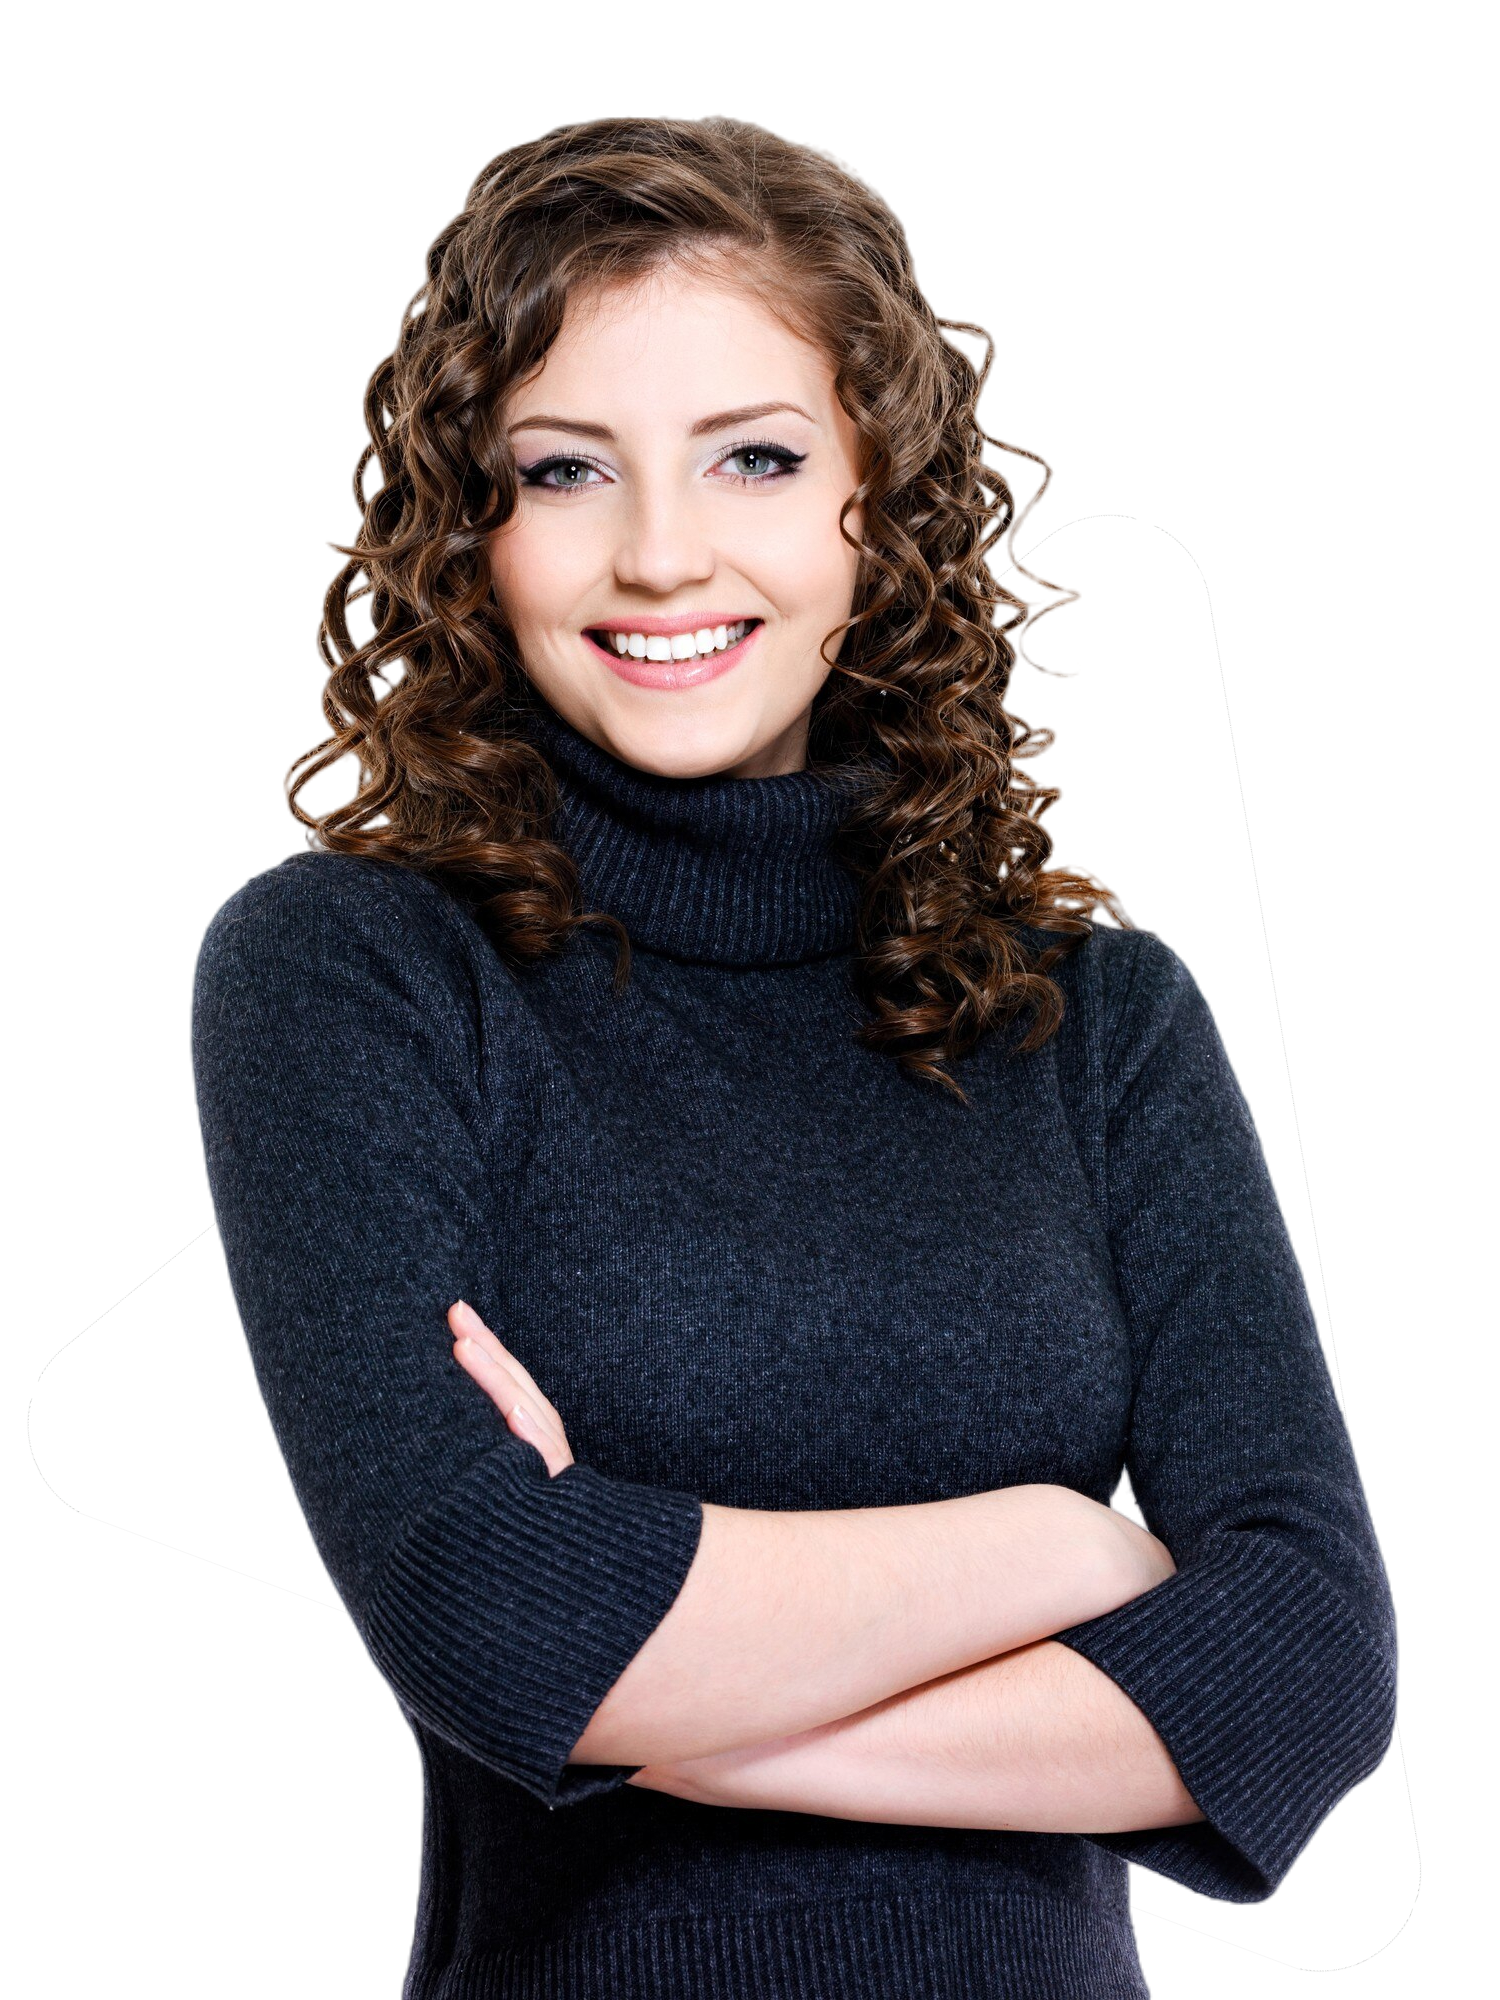
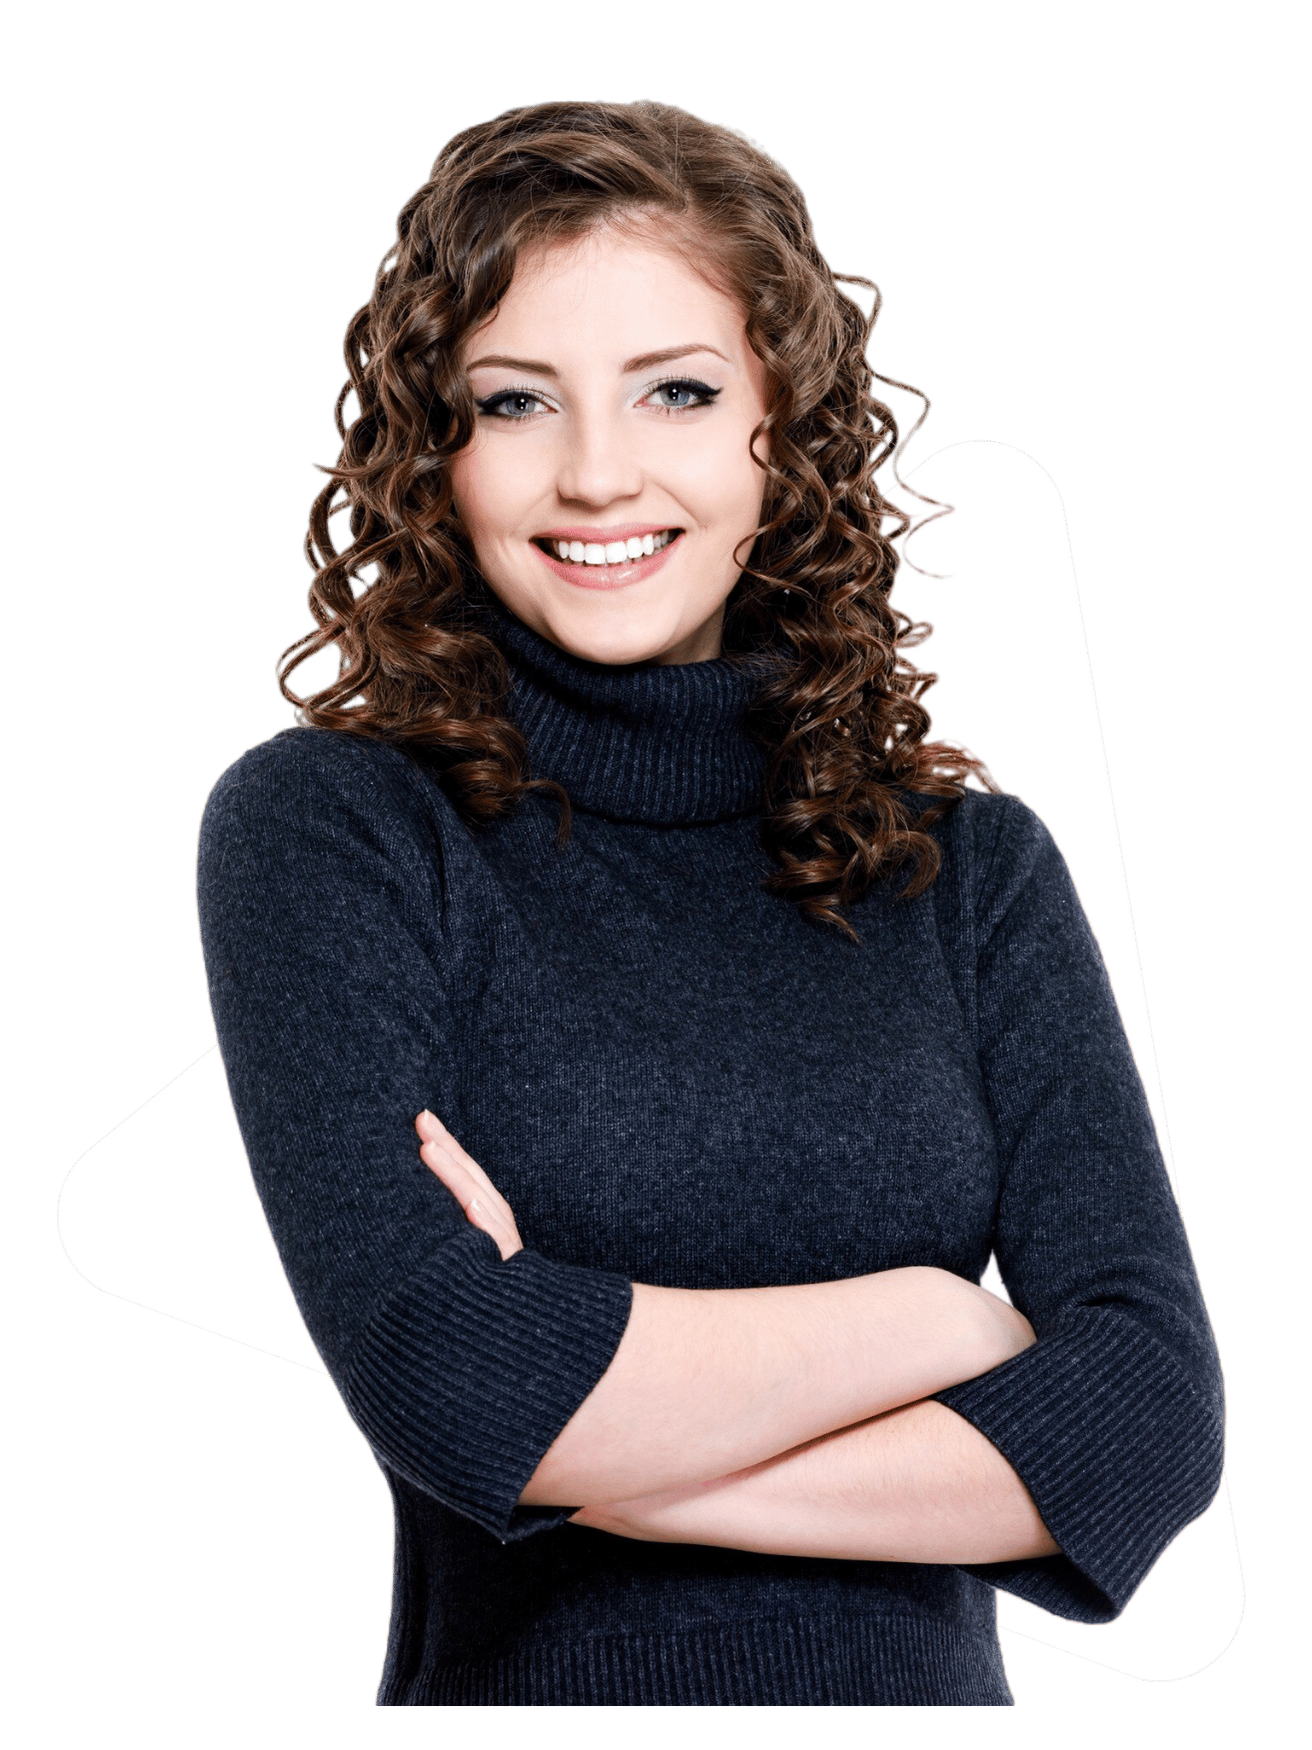
reduceimgfilessize

Changed region(s): [[0.125, 0.0309, 0.9375, 1.0]]

diff --git a/src/Components/About_us/Empower_clients.jsx b/src/Components/About_us/Empower_clients.jsx
@@ -15,8 +15,9 @@ const Empower_clients = () => {
           </span>
         </h3>
       </div>
-      <div className="container mx-auto max-w-5xl flex gap-20 flex-wrap items-start justify-center md:justify-between">
-        <div className=" grid gap-4 justify-items-center text-center md:flex-1 mt-8">
+      <div className="container mx-auto max-w-6xl">
+        <div className="flex flex-wrap justify-around">
+        <div className=" w-[190px] grid gap-4 justify-items-center text-center mx-2 my-3 mt-8">
           <div className="relative flex justify-center items-center">
             <div className="absolute animate-spin rounded-full h-28 w-28 border-t-8 border-b-8 border-t-slate-700 border-b-blueColor"></div>
             <img
@@ -30,7 +31,7 @@ const Empower_clients = () => {
             Ideate
           </h3>
         </div>
-        <div className="grid gap-4 justify-items-center text-center  md:flex-1 mt-8">
+        <div className="w-[190px] grid gap-4 justify-items-center text-center mx-2 my-3 mt-8">
           <div className="relative flex justify-center items-center">
             <div className="absolute animate-spin rounded-full h-28 w-28 border-t-8 border-b-8 border-t-slate-700 border-b-blueColor"></div>
             <img
@@ -43,7 +44,7 @@ const Empower_clients = () => {
             Strategic Plan
           </h3>
         </div>
-        <div className="grid gap-4 justify-items-center text-center md:flex-1 mt-8">
+        <div className="w-[190px] grid gap-4 justify-items-center text-center mx-2 my-3 mt-8">
           <div className="relative flex justify-center items-center">
             <div className="absolute animate-spin rounded-full h-28 w-28 border-t-8 border-b-8 border-t-slate-700 border-b-blueColor"></div>
             <img
@@ -57,7 +58,7 @@ const Empower_clients = () => {
             Design
           </h3>
         </div>
-        <div className="grid gap-4 justify-items-center text-center md:flex-1 mt-8">
+        <div className="w-[190px] grid gap-4 justify-items-center text-center mx-2 my-3 mt-8">
           <div className="relative flex justify-center items-center">
             <div className="absolute animate-spin rounded-full h-28 w-28 border-t-8 border-b-8 border-t-slate-700 border-b-blueColor"></div>
             <img
@@ -70,7 +71,7 @@ const Empower_clients = () => {
             Develop
           </h3>
         </div>
-        <div className="grid gap-4 justify-items-center text-center md:flex-1 mt-8">
+        <div className="w-[190px] grid gap-4 justify-items-center text-center mx-2 my-3 mt-8">
           <div className="relative flex justify-center items-center">
             <div className="absolute animate-spin rounded-full h-28 w-28 border-t-8 border-b-8 border-t-slate-700 border-b-blueColor"></div>
             <img
@@ -83,14 +84,15 @@ const Empower_clients = () => {
             Integrate
           </h3>
         </div>
-        <div className="text-center ">
-          <p className=" text-slate-600 text-base text-[15px]   max-w-5xl leading-normal font-semibold tracking-tight">
+        </div>
+        <div className="text-center mt-8">
+          <p className=" text-slate-600 text-base text-[15px] mx-auto max-w-5xl leading-normal font-semibold tracking-tight">
             As a leading custom application development company and IT
             consulting firm, BIT PARK provides our clients with cutting-edge
             software programming services for desktop, mobile, and web
             applications via extensive technological platforms. 
           </p>
-          <p className=" text-slate-600 text-base text-[15px]  p-[1.5rem] max-w-5xl leading-normal font-semibold tracking-tight">
+          <p className=" text-slate-600 text-base text-[15px] mx-auto p-[1.5rem] max-w-5xl leading-normal font-semibold tracking-tight">
             With a 15-year track record as a trustworthy technology solutions
             partner for a wide range of mid-market and enterprise clients, we
             constantly deliver innovative solutions that utilize technology to

diff --git a/src/Components/Contact/Newcontact.jsx b/src/Components/Contact/Newcontact.jsx
@@ -72,15 +72,11 @@ const Newcontact = () => {
   };
 
   return (
-    <div className="relative">
-      <div className=" flex h-[120svh] lg:h-screen">
-        <img
-          src={Contact_Us}
-          alt="bitpark-contact"
-          className="h-full w-full object-cover object-center"
-        />
-
-        <div className="absolute lg:top-[28%] top-[5%]  w-3/5 left-20  md:left-56 z-10">
+    <>
+    <section>
+      <div className=" bg-[url('../src/assets/all-images/NewContact.png')] bg-cover bg-no-repeat">
+        <div className="bg-slate-900/80 py-[8%] flex flex-col-reverse lg:flex-row justify-evenly items-center">
+        <div className="w-[400px] mt-12 ">
           <div className="mb-12 w-full  shrink-0 grow-0 basis-auto md:w-6/12 md:px-3 lg:w-full lg:px-6">
             {" "}
             <div className="flex items-start">
@@ -195,11 +191,10 @@ const Newcontact = () => {
             </a>
           </div>
         </div>
-        <div className="absolute lg:top-[14%] lg:right-48 xl:w-2/6 w-[90%]   top-[48%]  md:py-10  z-10  ml-5">
-          {/* <img src={Contact_us} alt="Contact_Banner" className="" /> */}
+        <div className="lg:w-[420px] w-[90%]">
           <form
             onSubmit={handleSubmit}
-            className="mb-12 w-full shrink-0 grow-0 basis-auto  border_glow p-5 rounded-lg"
+            className="w-full shrink-0 grow-0 basis-auto  border_glow p-5 rounded-lg"
           >
             <div className="mb-3 w-full">
               <label
@@ -280,9 +275,10 @@ const Newcontact = () => {
             </button>
           </form>
         </div>
+        </div>
       </div>
-      <div className="h-full w-full bg-slate-900 absolute top-0 opacity-80 "></div>
-    </div>
+    </section>
+    </>
   );
 };
 

diff --git a/src/Components/About_us/Whome.jsx b/src/Components/About_us/Whome.jsx
@@ -19,23 +19,23 @@ const Whome = () => {
             <img
               src={inquiry}
               alt="Initiate an inquiry to us"
-              className=" w-48 h-48 hover:scale-110 cursor-pointer transition duration-500 ease-in-out"
+              className=" object-cover w-48 h-48 hover:scale-110 cursor-pointer transition duration-500 ease-in-out"
             />
 
             <img
               src={Schedule_a_Preliminary_Call}
               alt="Schedule a Preliminary Call"
-              className="w-48 h-48 hover:scale-110 cursor-pointer transition duration-500 ease-in-out"
+              className="object-cover w-48 h-48 hover:scale-110 cursor-pointer transition duration-500 ease-in-out"
             />
             <img
               src={Get_a_Proposal}
               alt="Get a Proposal"
-              className="w-48 h-48 hover:scale-110 cursor-pointer transition duration-500 ease-in-out"
+              className="object-cover w-48 h-48 hover:scale-110 cursor-pointer transition duration-500 ease-in-out"
             />
             <img
               src={Sign_a_Service_Contract}
               alt="Sign a Service Contract"
-              className="w-48 h-48 hover:scale-110 cursor-pointer transition duration-500 ease-in-out "
+              className="object-cover w-48 h-48 hover:scale-110 cursor-pointer transition duration-500 ease-in-out "
             />
           </div>
 

diff --git a/src/Components/Services/TestingQA/Test_service.jsx b/src/Components/Services/TestingQA/Test_service.jsx
@@ -8,14 +8,11 @@ function Test_service() {
         <div className=" bg-slate-900 relative">
           <div
             className="bg-[url('../src/assets/all-images/tqasbgimg1.png')] bg-no-repeat bg-cover flex flex-col lg:flex-row justify-around w-auto  items-center"
-            // style={{
-            //   backgroundImage: "url(../src/assets/all-images/tqasbgimg1.png)",
-            // }}
           >
             <img
               src={testingandqamenimg1}
               alt="testing_and_qa"
-              className=" w-[100%] md:w-[50%] lg:w-[35%] border-b-4 border-b-white lg:border-none"
+              className="relative top-3 w-[100%] md:w-[50%] lg:w-[38%] border-b-4 border-b-white lg:border-none"
             />
             <p className="w-[90%] lg:w-[40%] py-9 text-[#fff] text-justify leading-8 text-lg ">
               Get complete Testing and QA services from Bit Park Pvt Ltd, your

diff --git a/src/Components/Technologies/Technologies.jsx b/src/Components/Technologies/Technologies.jsx
@@ -13,7 +13,7 @@ function Technologies() {
   return (
     <>
       <section>
-        <div className=" bg-[url('../src/assets/all-images/technologybgimg2.jpg')] bg-no-repeat bg-cover h-screen w-auto">
+        <div className=" bg-[url('../src/assets/all-images/technologybgimg2.png')] bg-no-repeat bg-cover h-screen w-auto">
           <div className="h-screen bg-black/75 flex flex-col justify-center items-center">
             <div className="">
               <h1 className="text-white px-4 text-2xl lg:text-5xl font-bold ">
